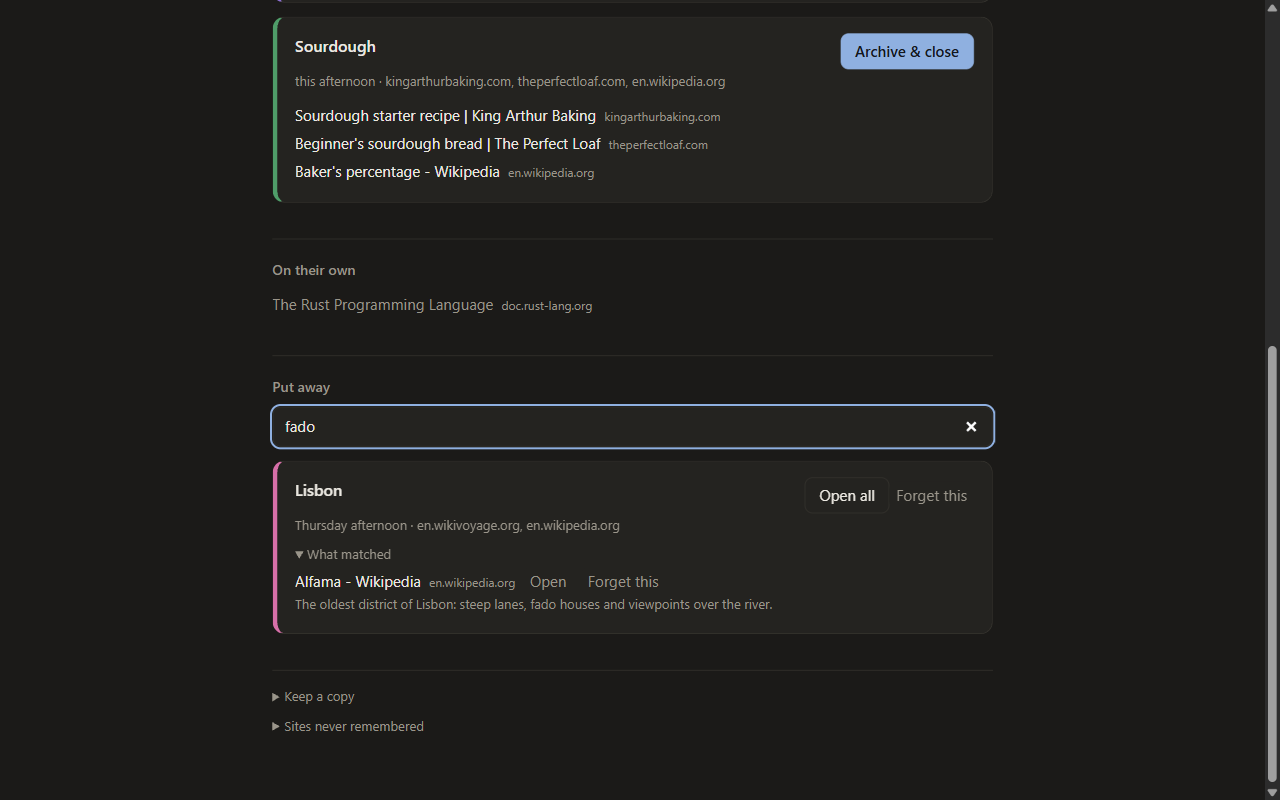
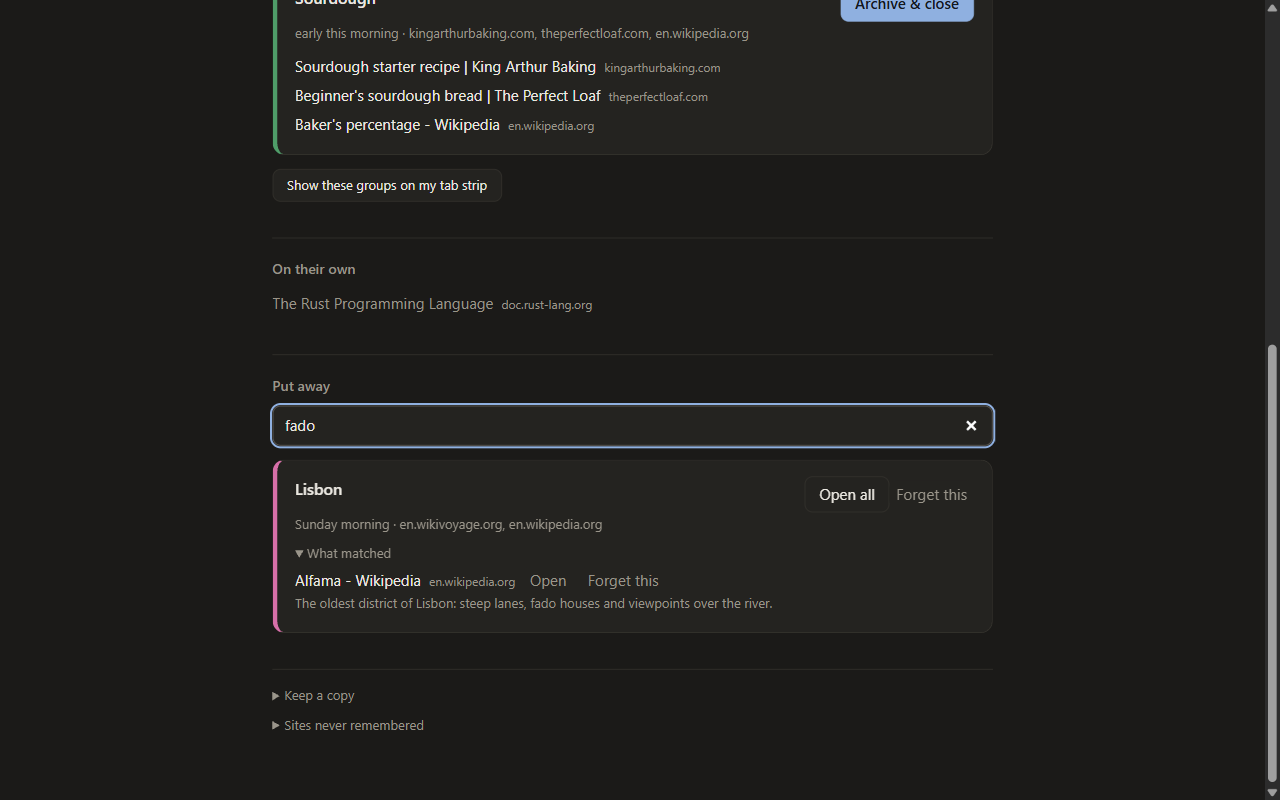
release: 0.1.1 - privacy, security and accessibility fixes; README screenshots from the 0.1.1 build

diff --git a/CHANGELOG.md b/CHANGELOG.md
@@ -5,6 +5,31 @@ versions follow [Semantic Versioning](https://semver.org/).
 
 ## [Unreleased]
 
+## [0.1.1] - 2026-11-10
+
+### Privacy and security
+- Sites can no longer detect that Tab Amnesty is installed: nothing in it is web-accessible.
+- Pages that are not web pages (local files, blank pages, files opened in a tab) keep no title or
+  text, only what kind of page they were.
+- Mail, chat, search and message pages on the built-in list keep only the site, or which page of
+  it — never a search's words or a message's id; the list now covers regional search engines,
+  Kagi, Yandex, YouTube results, and LinkedIn, Facebook, X and Instagram messages.
+- A page can no longer make its tab look like it holds unsent typing, nor send oversized text.
+- "Never remember" refuses whole endings like "com" or "co.uk", which would have forgotten every
+  address under them in one click, and finishes an interrupted purge when the site is added again.
+- A crafted "copy" file can no longer freeze the page; copies are capped at 200 MB and 500 lines a group.
+
+### Fixed
+- Forgetting a group no longer removes records that another put-away group or an open tab still uses.
+- Group names learned from a site go when the site is never remembered.
+
+### Accessibility
+- "Forget this" asks once before forgetting for good.
+- Messages, search results and Bring back are announced to screen readers; focus stays where you
+  were after every action; every button says which group or page it belongs to.
+- Text and field borders meet WCAG AA contrast in light and dark; lines wrap on narrow screens.
+- The page opens on your groups; "Show these groups on my tab strip" sits below them.
+
 ### Added
 - Continuous integration: typecheck, unit tests and the public build on every push and pull request.
 - `CONTRIBUTING.md`, `SECURITY.md`, issue and pull-request templates.
@@ -33,5 +58,6 @@ The first public release.
 - Mail, chat, calendar and search-results tabs keep no title, page text, search words or message ids.
 - Records of tabs closed without being put away are removed after 30 days.
 
-[Unreleased]: https://github.com/Makilesh/Chrome_tab_amnesty/compare/v0.1.0...HEAD
+[Unreleased]: https://github.com/Makilesh/Chrome_tab_amnesty/compare/v0.1.1...HEAD
+[0.1.1]: https://github.com/Makilesh/Chrome_tab_amnesty/compare/v0.1.0...v0.1.1
 [0.1.0]: https://github.com/Makilesh/Chrome_tab_amnesty/releases/tag/v0.1.0
